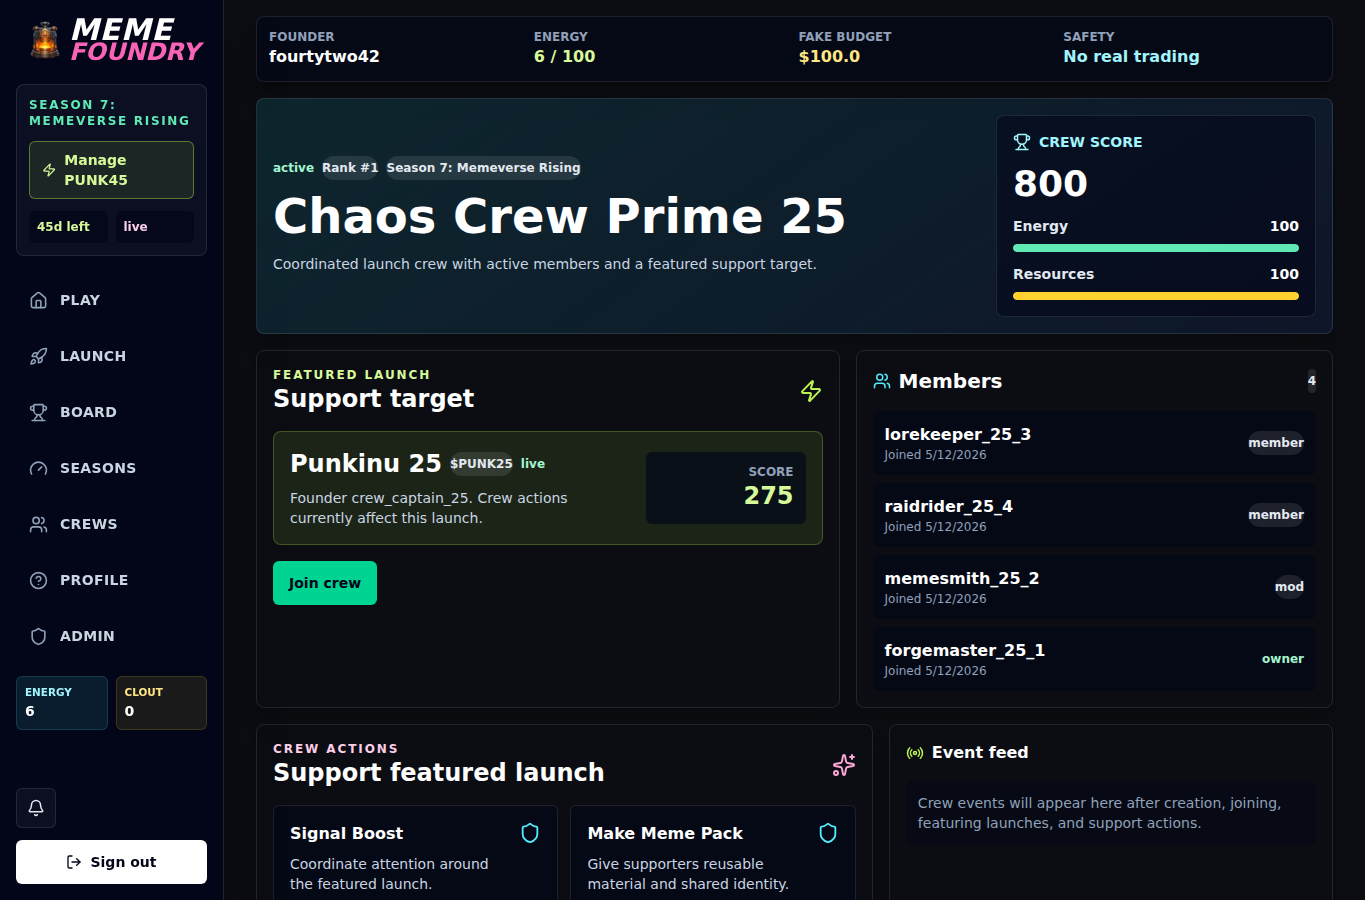
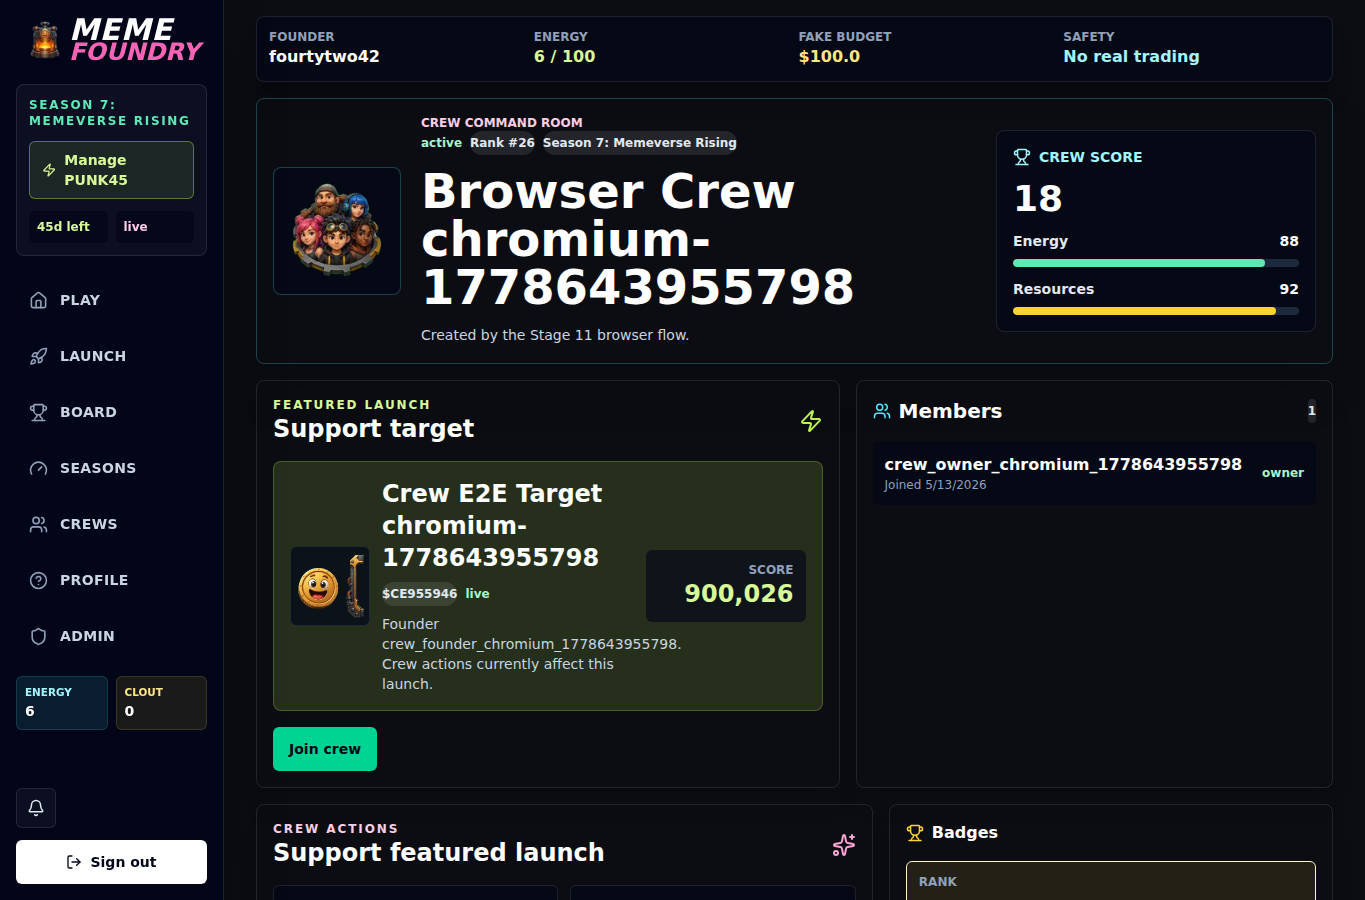
Align crew coordination screens

diff --git a/apps/web/src/app/crews/page.tsx b/apps/web/src/app/crews/page.tsx
@@ -1,6 +1,15 @@
 import type { Route } from "next";
+import Image from "next/image";
 import Link from "next/link";
-import { Badge, Button, FormField, Panel } from "@meme-foundry/ui";
+import {
+  Badge,
+  Button,
+  FormField,
+  Kicker,
+  MetricChip,
+  NeonPanel,
+  Panel
+} from "@meme-foundry/ui";
 import { auth } from "@/auth";
 import { AppShell } from "@/components/shell/app-shell";
 import { prisma } from "@meme-foundry/db";
@@ -72,12 +81,18 @@ export default async function CrewsPage({ searchParams }: CrewsPageProps) {
         ) : null}
 
         <section className="grid gap-4 xl:grid-cols-[0.85fr_1.4fr]">
-          <Panel className="border-cyan-300/25 bg-cyan-400/10">
+          <NeonPanel tone="cyan">
             <div className="flex items-start gap-3">
-              <span className="grid size-14 shrink-0 place-items-center rounded-lg bg-cyan-300/15 text-cyan-200">
-                <Users aria-hidden="true" />
-              </span>
+              <Image
+                alt="Default crew badge"
+                className="size-16 shrink-0 rounded-lg border border-cyan-300/25 bg-slate-950/55 object-contain p-2"
+                height={64}
+                priority
+                src="/assets/game/crews/default-badge.png"
+                width={64}
+              />
               <div>
+                <Kicker className="text-cyan-100">Crew coordination</Kicker>
                 <Badge tone="good">Co-op support</Badge>
                 <h1 className="mt-3 text-3xl font-black text-white sm:text-4xl">
                   Crews
@@ -89,32 +104,23 @@ export default async function CrewsPage({ searchParams }: CrewsPageProps) {
               </div>
             </div>
             <div className="mt-5 grid gap-3 sm:grid-cols-3 xl:grid-cols-1">
-              <div className="rounded-md bg-slate-950/55 p-3">
-                <p className="text-xs font-bold uppercase text-slate-400">
-                  Active crews
-                </p>
-                <p className="mt-1 text-2xl font-black text-white">
-                  {crews.length}
-                </p>
-              </div>
-              <div className="rounded-md bg-slate-950/55 p-3">
-                <p className="text-xs font-bold uppercase text-slate-400">
-                  Featured launches
-                </p>
-                <p className="mt-1 text-2xl font-black text-lime-200">
-                  {crews.filter((crew) => crew.featuredTokenId).length}
-                </p>
-              </div>
-              <div className="rounded-md bg-slate-950/55 p-3">
-                <p className="text-xs font-bold uppercase text-slate-400">
-                  My crews
-                </p>
-                <p className="mt-1 text-2xl font-black text-cyan-200">
-                  {myCrewIds.size}
-                </p>
-              </div>
+              <MetricChip
+                label="Active crews"
+                tone="good"
+                value={crews.length}
+              />
+              <MetricChip
+                label="Featured launches"
+                tone="hot"
+                value={crews.filter((crew) => crew.featuredTokenId).length}
+              />
+              <MetricChip
+                label="My crews"
+                tone="neutral"
+                value={myCrewIds.size}
+              />
             </div>
-          </Panel>
+          </NeonPanel>
 
           <Panel data-testid="create-crew-panel">
             <div className="mb-4 flex flex-wrap items-center justify-between gap-3">
@@ -192,27 +198,39 @@ export default async function CrewsPage({ searchParams }: CrewsPageProps) {
                 key={crew.id}
               >
                 <div className="flex flex-wrap items-start justify-between gap-3">
-                  <div>
-                    <div className="flex flex-wrap items-center gap-2">
-                      <Badge
-                        tone={
-                          crew.moderationStatus === "active" ? "good" : "warn"
-                        }
-                      >
-                        {crew.moderationStatus}
-                      </Badge>
-                      {myCrewIds.has(crew.id) ? (
-                        <Badge tone="good">member</Badge>
-                      ) : null}
+                  <div className="grid grid-cols-[4.5rem_minmax(0,1fr)] gap-3">
+                    <Image
+                      alt={`${crew.name} crew avatar`}
+                      className="size-18 rounded-md border border-white/10 bg-slate-950/70 object-contain p-1"
+                      height={72}
+                      src={
+                        crew.avatarUrl ??
+                        "/assets/game/crews/default-avatar.png"
+                      }
+                      width={72}
+                    />
+                    <div>
+                      <div className="flex flex-wrap items-center gap-2">
+                        <Badge
+                          tone={
+                            crew.moderationStatus === "active" ? "good" : "warn"
+                          }
+                        >
+                          {crew.moderationStatus}
+                        </Badge>
+                        {myCrewIds.has(crew.id) ? (
+                          <Badge tone="good">member</Badge>
+                        ) : null}
+                      </div>
+                      <h3 className="mt-3 text-xl font-black text-white">
+                        {crew.name}
+                      </h3>
+                      <p className="mt-1 text-sm leading-5 text-slate-400">
+                        {crew.tagline ??
+                          crew.description ??
+                          "A crew coordinating fictional launch support."}
+                      </p>
                     </div>
-                    <h3 className="mt-3 text-xl font-black text-white">
-                      {crew.name}
-                    </h3>
-                    <p className="mt-1 text-sm leading-5 text-slate-400">
-                      {crew.tagline ??
-                        crew.description ??
-                        "A crew coordinating fictional launch support."}
-                    </p>
                   </div>
                   <span className="grid size-11 shrink-0 place-items-center rounded-full bg-amber-300 text-lg font-black text-slate-950">
                     {index + 1}

diff --git a/apps/web/src/app/crews/[slug]/page.tsx b/apps/web/src/app/crews/[slug]/page.tsx
@@ -1,7 +1,16 @@
 import type { Route } from "next";
+import Image from "next/image";
 import Link from "next/link";
 import { notFound } from "next/navigation";
-import { Badge, Button, Panel, StatBar } from "@meme-foundry/ui";
+import {
+  Badge,
+  Button,
+  Kicker,
+  MetricChip,
+  NeonPanel,
+  Panel,
+  StatBar
+} from "@meme-foundry/ui";
 import { auth } from "@/auth";
 import { AppShell } from "@/components/shell/app-shell";
 import {
@@ -136,9 +145,18 @@ export default async function CrewDetailPage({
           </Panel>
         ) : null}
 
-        <Panel className="border-cyan-300/25 bg-[linear-gradient(145deg,rgba(34,211,238,0.13),rgba(15,23,42,0.94))]">
-          <div className="grid gap-5 xl:grid-cols-[1fr_20rem] xl:items-center">
+        <NeonPanel tone="cyan">
+          <div className="grid gap-5 xl:grid-cols-[8rem_minmax(0,1fr)_20rem] xl:items-center">
+            <Image
+              alt={`${crew.name} crew avatar`}
+              className="mx-auto size-32 rounded-lg border border-cyan-300/25 bg-slate-950/55 object-contain p-3"
+              height={128}
+              priority
+              src={crew.avatarUrl ?? "/assets/game/crews/default-avatar.png"}
+              width={128}
+            />
             <div>
+              <Kicker className="text-cyan-100">Crew command room</Kicker>
               <div className="flex flex-wrap items-center gap-2">
                 <Badge
                   tone={crew.moderationStatus === "active" ? "good" : "warn"}
@@ -174,7 +192,7 @@ export default async function CrewDetailPage({
               </div>
             </div>
           </div>
-        </Panel>
+        </NeonPanel>
 
         <section className="grid gap-4 xl:grid-cols-[1.1fr_0.9fr]">
           <Panel data-testid="featured-launch-panel">
@@ -191,9 +209,20 @@ export default async function CrewDetailPage({
             </div>
             {crew.featuredToken ? (
               <Link
-                className="grid gap-3 rounded-lg border border-lime-300/25 bg-lime-300/10 p-4 hover:bg-lime-300/15 sm:grid-cols-[1fr_10rem] sm:items-center"
+                className="grid gap-3 rounded-lg border border-lime-300/25 bg-lime-300/10 p-4 hover:bg-lime-300/15 sm:grid-cols-[5rem_minmax(0,1fr)_10rem] sm:items-center"
                 href={`/token/${crew.featuredToken.id}` as Route}
               >
+                <Image
+                  alt={`${crew.featuredToken.name} token art`}
+                  className="size-20 rounded-md border border-white/10 bg-slate-950/70 object-contain p-1"
+                  height={80}
+                  src={
+                    crew.featuredToken.cardImageUrl ??
+                    crew.featuredToken.placeholderImageUrl ??
+                    "/assets/game/tokens/default-token-mascot.png"
+                  }
+                  width={80}
+                />
                 <div>
                   <div className="flex flex-wrap items-center gap-2">
                     <h3 className="text-2xl font-black text-white">
@@ -411,6 +440,28 @@ export default async function CrewDetailPage({
           </Panel>
 
           <div className="grid gap-4">
+            <Panel data-testid="crew-badges-panel">
+              <h2 className="mb-4 flex items-center gap-2 font-black text-white">
+                <Trophy className="text-amber-300" size={18} /> Badges
+              </h2>
+              <div className="grid gap-3 sm:grid-cols-3 xl:grid-cols-1">
+                <MetricChip label="Rank" tone="warn" value={`#${rank}`} />
+                <MetricChip
+                  label="Actions"
+                  tone="good"
+                  value={crew._count.actions.toLocaleString()}
+                />
+                <MetricChip
+                  label="Members"
+                  tone="neutral"
+                  value={crew._count.members.toLocaleString()}
+                />
+              </div>
+              <p className="mt-3 text-sm leading-6 text-slate-400">
+                Crews earn visible status through featured-launch support,
+                member coordination, and sustained score growth.
+              </p>
+            </Panel>
             <Panel data-testid="crew-event-feed">
               <h2 className="mb-4 flex items-center gap-2 font-black text-white">
                 <Radio className="text-lime-300" size={18} /> Event feed
